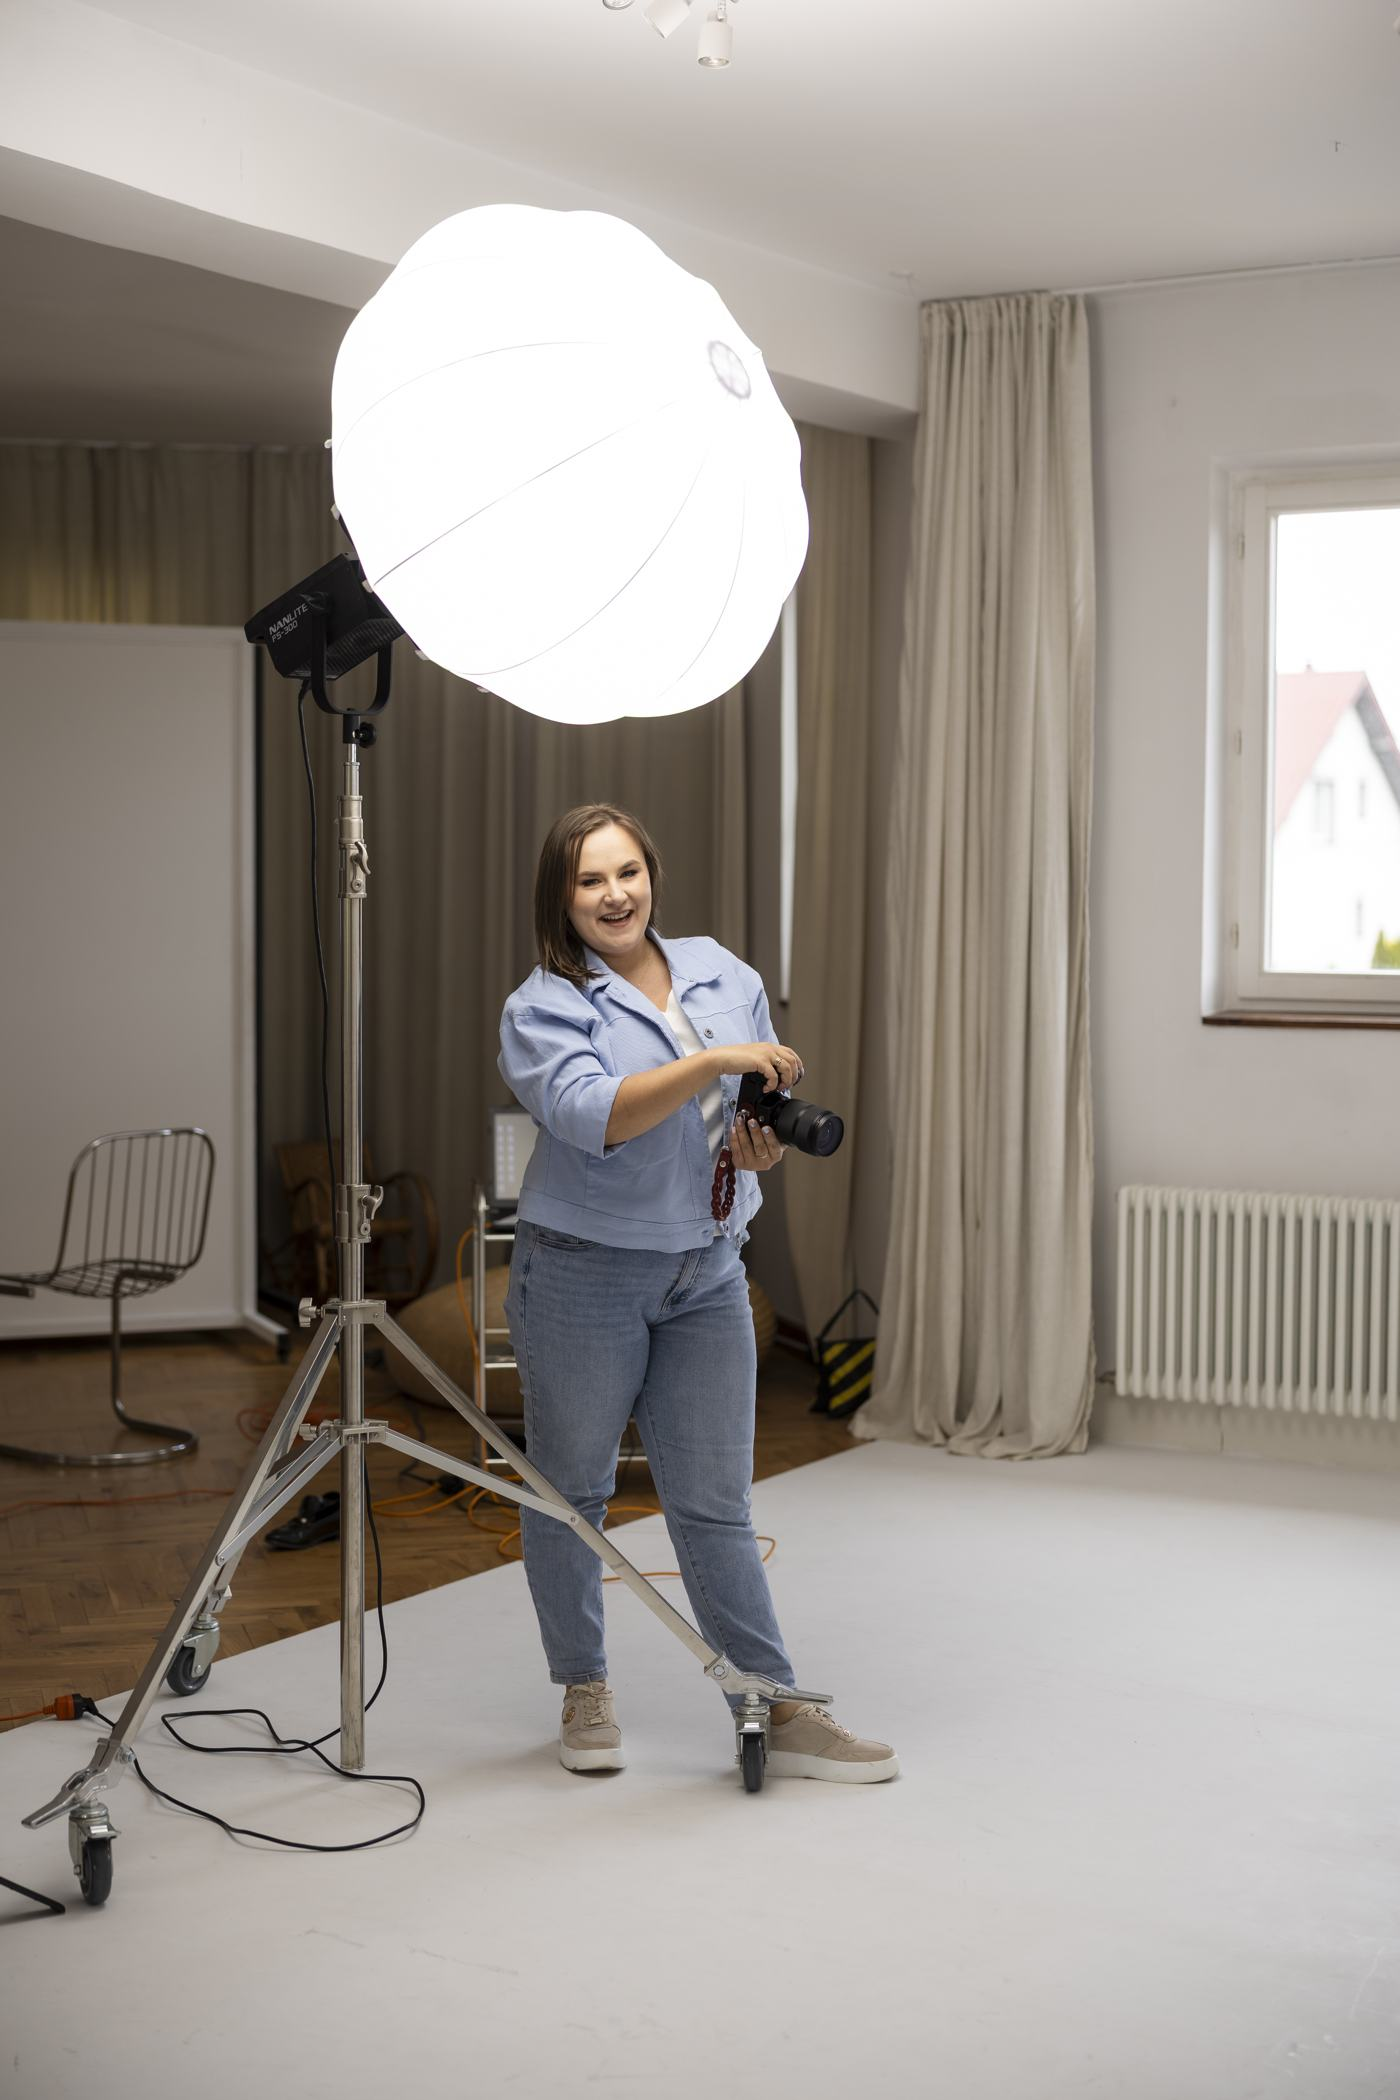
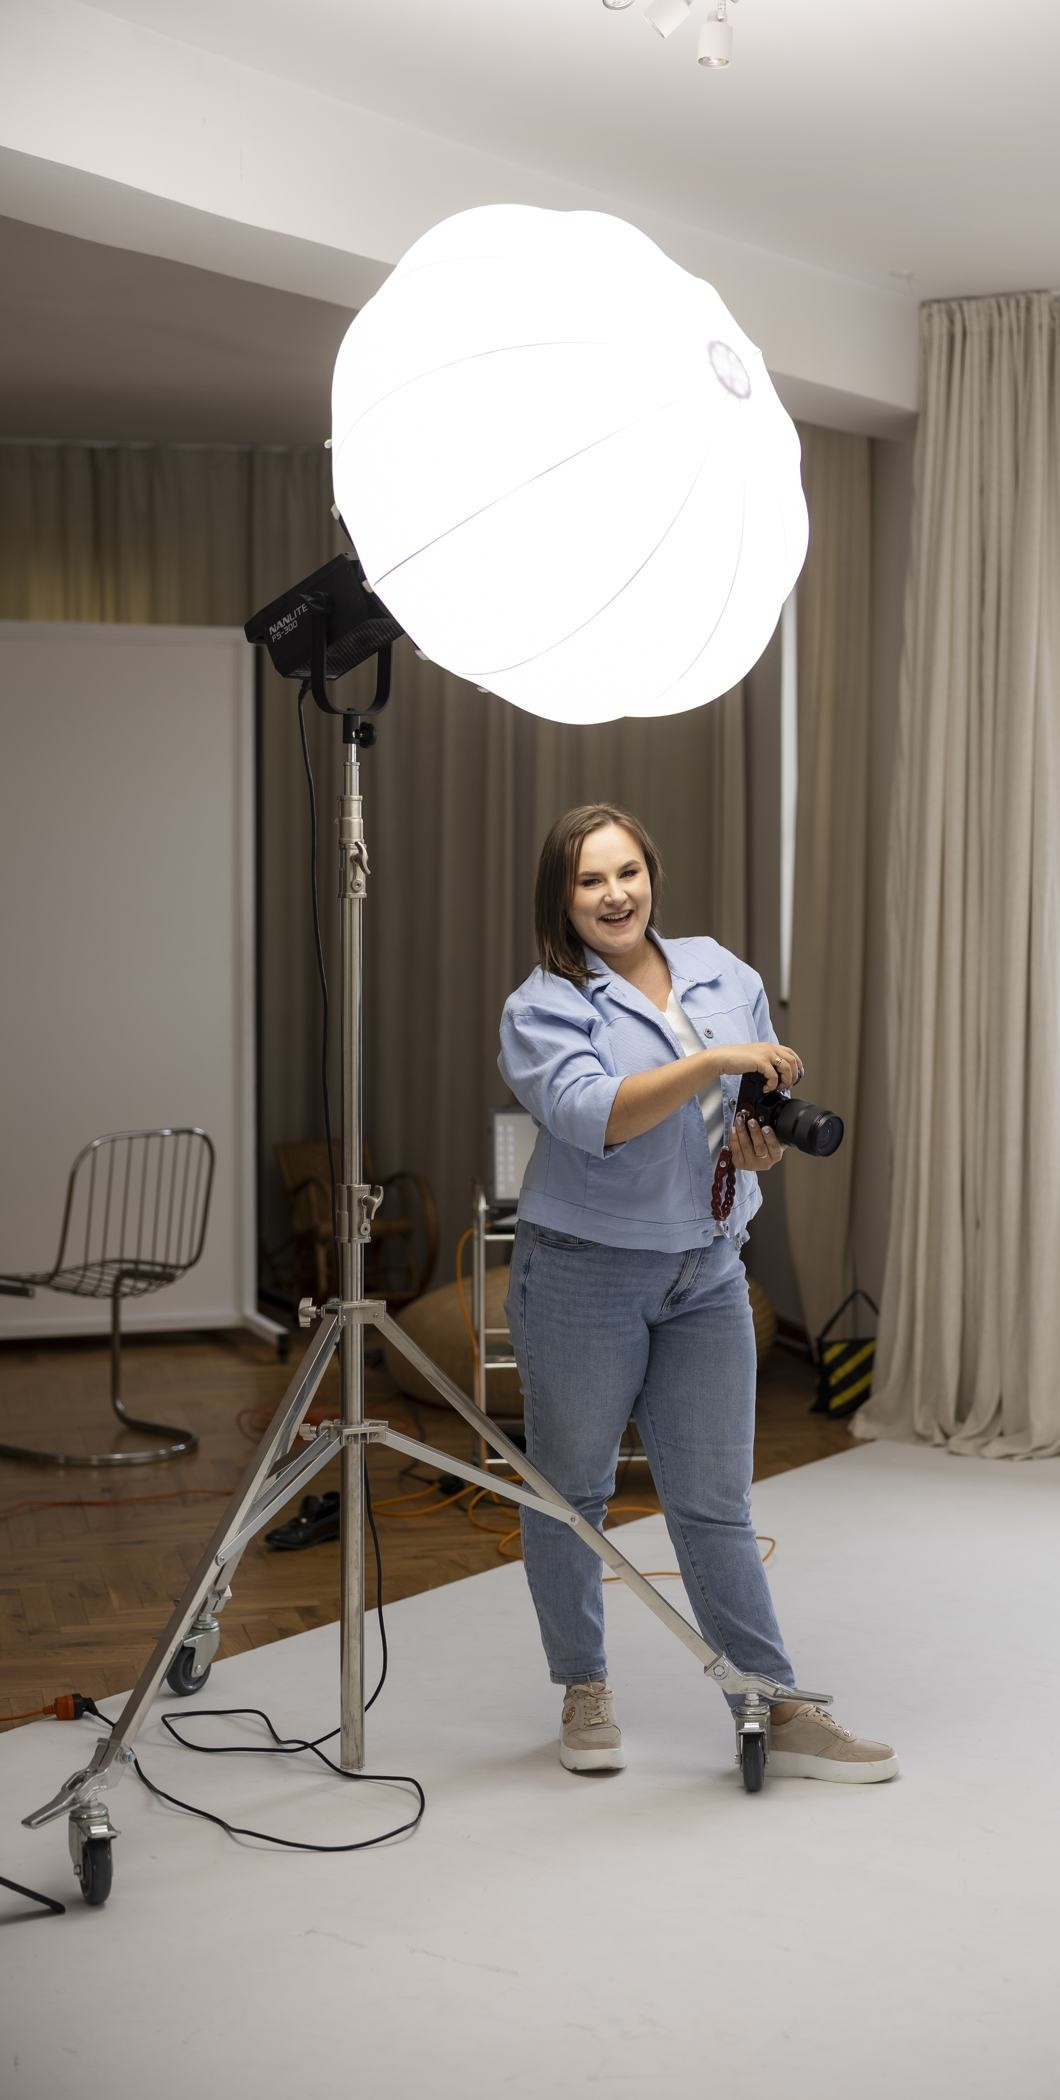
s

diff --git a/index.html b/index.html
@@ -92,7 +92,7 @@
   /* per-category framing — each photo cropped on purpose, not just "cover" */
   .layer[data-cat="default"] img{ object-position: 62% 50%; }
   .layer[data-cat="stories"] img{ object-position: 58% 50%; }
-  .layer[data-cat="business"] img{ object-position: 46% 50%; }
+  .layer[data-cat="business"] img{ object-position: 50% 45%; }
 
   .overlap-type{position:absolute;z-index:4;top:9%;left:calc(39% - 40px);right:4%;pointer-events:none;user-select:none}
   .type-scrim{position:absolute;top:-14%;bottom:-20%;left:-16%;right:-6%;z-index:-1;border-radius:6px;
@@ -125,14 +125,14 @@
 
     .layer[data-cat="default"] img{ object-position: 68% 50%; }
     .layer[data-cat="stories"] img{ object-position: 64% 50%; }
-    .layer[data-cat="business"] img{ object-position: 50% 50%; }
+    .layer[data-cat="business"] img{ object-position: 50% 45%; }
   }
 
   @media(max-width:600px){
     .hero-photo{height:52vh;min-height:340px}
     .layer[data-cat="default"] img{ object-position: 72% 50%; }
     .layer[data-cat="stories"] img{ object-position: 68% 50%; }
-    .layer[data-cat="business"] img{ object-position: 48% 45%; }
+    .layer[data-cat="business"] img{ object-position: 50% 45%; }
   }
 
   /* WYBIERZ */
